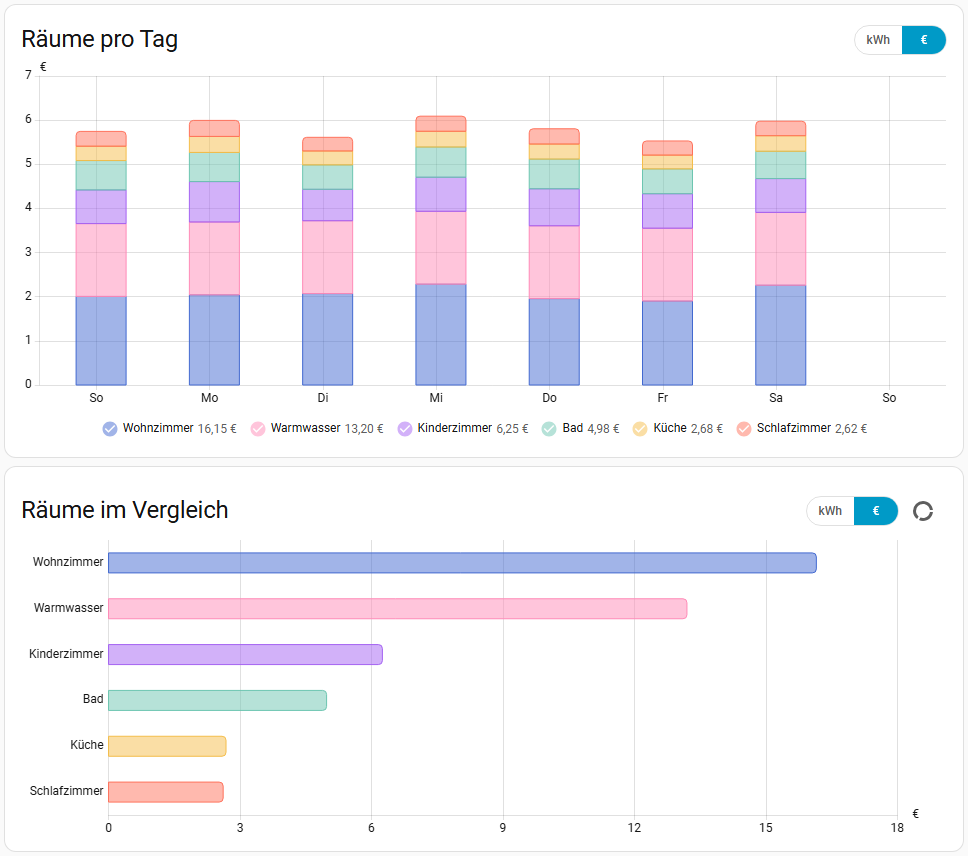
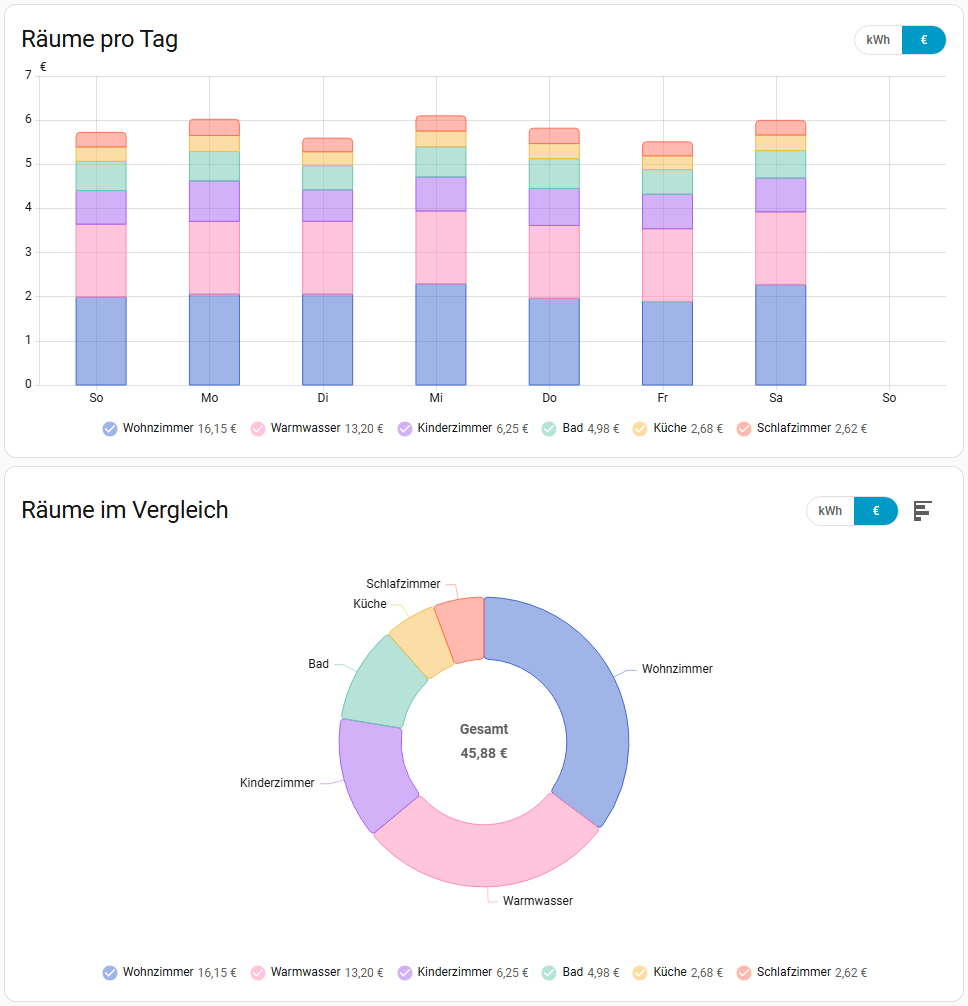
Help pages: the heat dashboard compares the rooms as a donut by default, with new screenshots

diff --git a/docs/energy-dashboard.de.md b/docs/energy-dashboard.de.md
@@ -144,6 +144,9 @@ views:
               columns: 36
           - type: custom:heat-ledger-gas-devices-graph
             title: Räume im Vergleich
+            modes:
+              - pie
+              - bar
             grid_options:
               columns: 36
           - type: gas-sankey

diff --git a/docs/energy-dashboard.md b/docs/energy-dashboard.md
@@ -136,6 +136,9 @@ views:
               columns: 36
           - type: custom:heat-ledger-gas-devices-graph
             title: Rooms compared
+            modes:
+              - pie
+              - bar
             grid_options:
               columns: 36
           - type: gas-sankey
